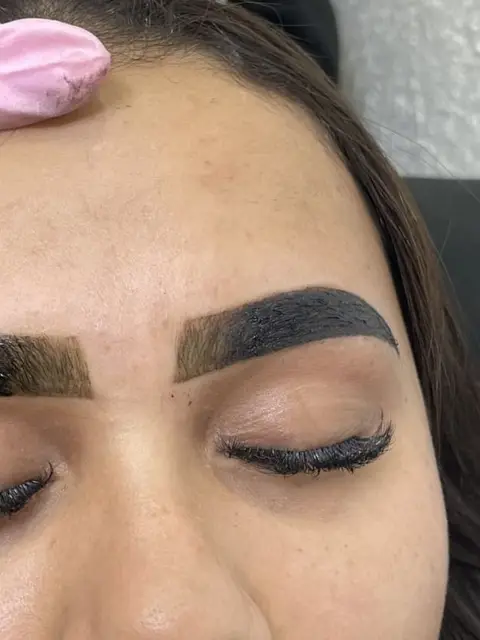
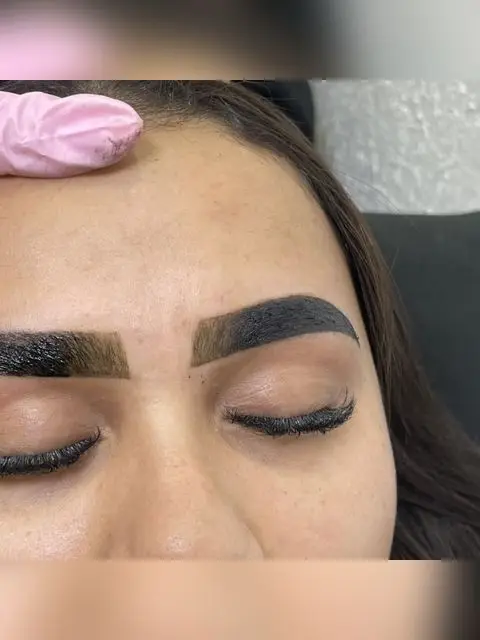
Fotos inteiras e centralizadas, Fox Eyes com uma foto, melhorias no push e scripts

diff --git a/public/index.html b/public/index.html
@@ -141,14 +141,11 @@
   /* antes e depois */
   .ba-wrap { margin: 0; }
   .ba {
-    position: relative; aspect-ratio: 4 / 5; border-radius: var(--r-lg); overflow: hidden; box-shadow: var(--shadow);
+    position: relative; aspect-ratio: 9 / 16; max-width: 400px; margin-inline: auto; border-radius: var(--r-lg); overflow: hidden; box-shadow: var(--shadow);
     background: var(--pink-50); user-select: none; -webkit-user-select: none; touch-action: pan-y;
   }
-  .ba-img { position: absolute; inset: 0; width: 100%; height: 100%; object-fit: cover; object-position: 50% 45%; pointer-events: none; }
+  .ba-img { position: absolute; inset: 0; width: 100%; height: 100%; object-fit: contain; object-position: 50% 50%; pointer-events: none; }
   .ba-before { position: absolute; inset: 0; overflow: hidden; clip-path: inset(0 calc(100% - var(--pos)) 0 0); }
-  /* alinha os rostos das duas fotos (o "antes" foi tirado mais de longe) */
-  #baBefore { object-position: 50% 50%; transform: scale(1.32); transform-origin: 58% 50%; }
-  #baAfter { object-position: 50% 42%; }
   .ba-line {
     position: absolute; top: 0; bottom: 0; left: var(--pos); width: 2px; margin-left: -1px; background: #fff;
     box-shadow: 0 0 12px rgba(0, 0, 0, .25); pointer-events: none;
@@ -225,9 +222,10 @@
   .media { position: relative; aspect-ratio: 4 / 5; background: var(--pink-50); overflow: hidden; }
   .slides { position: absolute; inset: 0; display: flex; overflow-x: auto; scroll-snap-type: x mandatory; scrollbar-width: none; }
   .slides::-webkit-scrollbar { display: none; }
-  .slides button { flex: 0 0 100%; height: 100%; scroll-snap-align: center; border: 0; padding: 0; cursor: zoom-in; background: none; overflow: hidden; }
-  .slides img { width: 100%; height: 100%; object-fit: cover; transition: transform 1.2s var(--ease); }
-  .card:hover .slides img { transform: scale(1.04); }
+  /* foto inteira e centralizada, sobre um fundo desfocado da própria foto */
+  .slides button { position: relative; flex: 0 0 100%; height: 100%; scroll-snap-align: center; border: 0; padding: 0; cursor: zoom-in; background: var(--pink-50); overflow: hidden; }
+  .slides button::before { content: ""; position: absolute; inset: -20px; background: var(--bg) center / cover; filter: blur(22px); }
+  .slides img { position: relative; width: 100%; height: 100%; object-fit: contain; object-position: 50% 50%; }
   .dots { position: absolute; left: 0; right: 0; bottom: 12px; display: flex; justify-content: center; gap: 6px; pointer-events: none; }
   .dots i { width: 6px; height: 6px; border-radius: 3px; background: rgba(255, 255, 255, .6); transition: width .4s var(--ease), background .3s; }
   .dots i.on { width: 18px; background: #fff; }
@@ -721,7 +719,7 @@
     // miniaturas leves já recortadas (npm run thumbs); se faltar alguma, cai na foto original
     const html = tiles.map(({ s, p }) =>
       '<a class="tile" href="#catalogo" data-goto="' + esc(s.id) + '"><div class="ph"><img src="' + esc(thumb(p.src)) + '" data-full="' + esc(p.src) +
-      '" style="object-position:' + esc(p.focus) + '" alt="' + esc(s.name) + '" width="480" height="640" decoding="async" draggable="false"></div>' +
+      '" alt="' + esc(s.name) + '" width="480" height="640" decoding="async" draggable="false"></div>' +
       '<span>' + esc(s.name) + '<small>' + esc(s.category) + '</small></span></a>').join('');
     // duas cópias para o loop infinito (mesmas URLs: o navegador baixa uma vez só; a cópia fica escondida dos leitores de tela)
     $('track').innerHTML = html + '<div style="display:contents" aria-hidden="true">' + html.replace(/<a /g, '<a tabindex="-1" ') + '</div>';
@@ -752,8 +750,8 @@
 
     $('grid').innerHTML = CFG.services.map((s, i) => {
       const slides = s.photos.map((p, j) =>
-        '<button type="button" data-zoom="' + esc(p.src) + '" aria-label="Ampliar foto ' + (j + 1) + ' de ' + esc(s.name) + '">' +
-        '<img src="' + esc(p.src) + '" style="object-position:' + esc(p.focus) + '" alt="' + esc(s.name) + ' foto ' + (j + 1) + '" loading="lazy"></button>').join('');
+        '<button type="button" data-zoom="' + esc(p.src) + '" style="--bg:url(\'' + esc(p.src) + '\')" aria-label="Ampliar foto ' + (j + 1) + ' de ' + esc(s.name) + '">' +
+        '<img src="' + esc(p.src) + '" alt="' + esc(s.name) + ' foto ' + (j + 1) + '" loading="lazy"></button>').join('');
       const dots = s.photos.length > 1 ? '<div class="dots">' + s.photos.map((_, j) => '<i' + (j === 0 ? ' class="on"' : '') + '></i>').join('') + '</div>' : '';
       const prices = Object.keys(OPT).filter((o) => typeof s.prices[o] === 'number').map((o) =>
         '<div class="price"><small>' + OPT[o] + '</small><b>' + brlShort(s.prices[o]) + '</b></div>').join('');

diff --git a/scripts/icons.js b/scripts/icons.js
@@ -1,0 +1,37 @@
+// Gera os ícones do painel (Tela de Início do iPhone/Android e notificações). Uso: node scripts/icons.js
+const fs = require('fs');
+const path = require('path');
+const sharp = require('sharp');
+
+const OUT = path.join(__dirname, '..', 'public', 'icons');
+fs.mkdirSync(OUT, { recursive: true });
+
+// fundo rosa em degradê com o "B" branco (como no logotipo)
+const icon = (size, pad) => `
+<svg xmlns="http://www.w3.org/2000/svg" width="${size}" height="${size}" viewBox="0 0 512 512">
+  <defs><linearGradient id="g" x1="0" y1="0" x2="1" y2="1">
+    <stop offset="0" stop-color="#ef8fb3"/><stop offset=".55" stop-color="#e0588a"/><stop offset="1" stop-color="#b8386a"/>
+  </linearGradient></defs>
+  <rect width="512" height="512" fill="url(#g)"/>
+  <text x="256" y="${256 + 118 * pad}" text-anchor="middle" font-family="Bodoni MT, Didot, Georgia, 'Times New Roman', serif"
+        font-weight="700" font-size="${340 * pad}" fill="#ffffff">B</text>
+</svg>`;
+// ícone pequeno monocromático (barra de status do Android)
+const badge = `
+<svg xmlns="http://www.w3.org/2000/svg" width="96" height="96" viewBox="0 0 96 96">
+  <text x="48" y="80" text-anchor="middle" font-family="Georgia, 'Times New Roman', serif" font-weight="700" font-size="88" fill="#ffffff">B</text>
+</svg>`;
+
+(async () => {
+  const jobs = [
+    ['icon-192.png', 192, 1], ['icon-512.png', 512, 1],
+    ['icon-maskable-512.png', 512, 0.78], // área segura menor para ícones recortados em círculo
+    ['apple-touch-icon.png', 180, 1],
+  ];
+  for (const [name, size, pad] of jobs) {
+    await sharp(Buffer.from(icon(size, pad))).resize(size, size).png().toFile(path.join(OUT, name));
+    console.log('icons/' + name);
+  }
+  await sharp(Buffer.from(badge)).png().toFile(path.join(OUT, 'badge-96.png'));
+  console.log('icons/badge-96.png');
+})().catch((e) => { console.error(e); process.exit(1); });

diff --git a/scripts/migrate-to-redis.js b/scripts/migrate-to-redis.js
@@ -1,0 +1,30 @@
+// Copia a agenda da pasta data/ (computador) para o Upstash Redis.
+// Uso: defina UPSTASH_REDIS_REST_URL e UPSTASH_REDIS_REST_TOKEN no .env e rode: npm run migrate
+// Não sobrescreve o que já existe no Redis, a não ser com: npm run migrate -- --force
+require('dotenv').config();
+const fs = require('fs');
+const path = require('path');
+
+if (!process.env.UPSTASH_REDIS_REST_URL || !process.env.UPSTASH_REDIS_REST_TOKEN) {
+  console.error('Defina UPSTASH_REDIS_REST_URL e UPSTASH_REDIS_REST_TOKEN no .env (copie do painel do Upstash).');
+  process.exit(1);
+}
+const store = require('../store');
+const force = process.argv.includes('--force');
+// Os aparelhos das notificações não são copiados: no endereço novo (https) cada aparelho ativa de novo.
+const NAMES = ['bookings', 'removed-bookings'];
+
+(async () => {
+  await store.ping();
+  for (const name of NAMES) {
+    const file = path.join(__dirname, '..', 'data', name + '.json');
+    if (!fs.existsSync(file)) { console.log(`- ${name}: não existe em data/, pulando`); continue; }
+    const current = await store.getJSON(name, null);
+    if (current && !force) { console.log(`- ${name}: já existe no Redis, pulando (use --force para sobrescrever)`); continue; }
+    const value = JSON.parse(fs.readFileSync(file, 'utf8'));
+    await store.setJSON(name, value);
+    const n = Array.isArray(value) ? value.length : (value.bookings || []).length;
+    console.log(`✓ ${name}: copiado (${n} agendamento(s))`);
+  }
+  console.log('Pronto.');
+})().catch((e) => { console.error(e.message); process.exit(1); });

diff --git a/scripts/thumbs.js b/scripts/thumbs.js
@@ -1,0 +1,31 @@
+// Gera miniaturas leves (WebP 3:4) das fotos do catálogo, usadas na faixa "Trabalhos reais" e na escolha do serviço.
+// Rode depois de adicionar ou trocar fotos: npm run thumbs
+const fs = require('fs');
+const path = require('path');
+const sharp = require('sharp');
+
+const ROOT = path.join(__dirname, '..');
+const PUBLIC = path.join(ROOT, 'public');
+const OUT_W = 480;
+const OUT_H = 640; // 3:4
+
+const thumbPath = (src) => src.replace(/^img\//, 'img/thumbs/').replace(/\.(jpe?g|png|webp)$/i, '.webp');
+
+(async () => {
+  const catalog = JSON.parse(fs.readFileSync(path.join(ROOT, 'catalog.json'), 'utf8'));
+  const photos = catalog.services.flatMap((s) => s.photos.map((p) => (typeof p === 'string' ? { src: p } : p)));
+  fs.mkdirSync(path.join(PUBLIC, 'img', 'thumbs'), { recursive: true });
+
+  for (const p of photos) {
+    const input = path.join(PUBLIC, p.src);
+    const output = path.join(PUBLIC, thumbPath(p.src));
+    // foto inteira e centralizada (sem corte), sobre um fundo desfocado da própria foto
+    const bg = await sharp(input).resize(OUT_W, OUT_H, { fit: 'cover' }).blur(24).modulate({ brightness: 1.05 }).toBuffer();
+    const fg = await sharp(input).resize(OUT_W, OUT_H, { fit: 'inside' }).toBuffer();
+    const info = await sharp(bg)
+      .composite([{ input: fg, gravity: 'center' }])
+      .webp({ quality: 72 })
+      .toFile(output);
+    console.log(thumbPath(p.src), Math.round(info.size / 1024) + 'KB');
+  }
+})().catch((e) => { console.error(e); process.exit(1); });

diff --git a/push.js b/push.js
@@ -23,11 +23,20 @@ function init() {
         }
       }
       // a Apple recusa o envio sem um "subject" válido (mailto: ou https:)
-      webpush.setVapidDetails(process.env.VAPID_SUBJECT || 'mailto:admin@example.com', keys.publicKey, keys.privateKey);
+      webpush.setVapidDetails(vapidSubject(), keys.publicKey, keys.privateKey);
       publicKey = keys.publicKey;
     })().catch((e) => { ready = null; throw e; });
   }
   return ready;
+}
+
+// Aceita "mailto:email", "https://site" ou só o e-mail (completa o mailto: sozinho)
+function vapidSubject() {
+  const raw = String(process.env.VAPID_SUBJECT || '').trim();
+  if (!raw) return 'mailto:admin@example.com';
+  if (/^(mailto:|https:\/\/)/i.test(raw)) return raw;
+  if (/^[^\s@:]+@[^\s@]+\.[^\s@]+$/.test(raw)) return 'mailto:' + raw;
+  throw new Error(`VAPID_SUBJECT inválido ("${raw}"). Use mailto: seguido do e-mail, por exemplo: mailto:seu-email@gmail.com`);
 }
 
 const readSubs = () => store.getJSON('push-subscriptions', []);

diff --git a/server.js b/server.js
@@ -565,9 +565,14 @@ app.get('/healthz', (req, res) => res.type('text').send('ok'));
 (async () => {
   try {
     await store.ping();
+  } catch (e) {
+    console.error('Não foi possível conectar ao armazenamento (' + store.mode + '). Confira UPSTASH_REDIS_REST_URL e UPSTASH_REDIS_REST_TOKEN:', e.message);
+    process.exit(1);
+  }
+  try {
     await push.init();
   } catch (e) {
-    console.error('Não foi possível conectar ao armazenamento (' + store.mode + '):', e.message);
+    console.error('Erro na configuração das notificações:', e.message);
     process.exit(1);
   }
   app.listen(PORT, () => {
